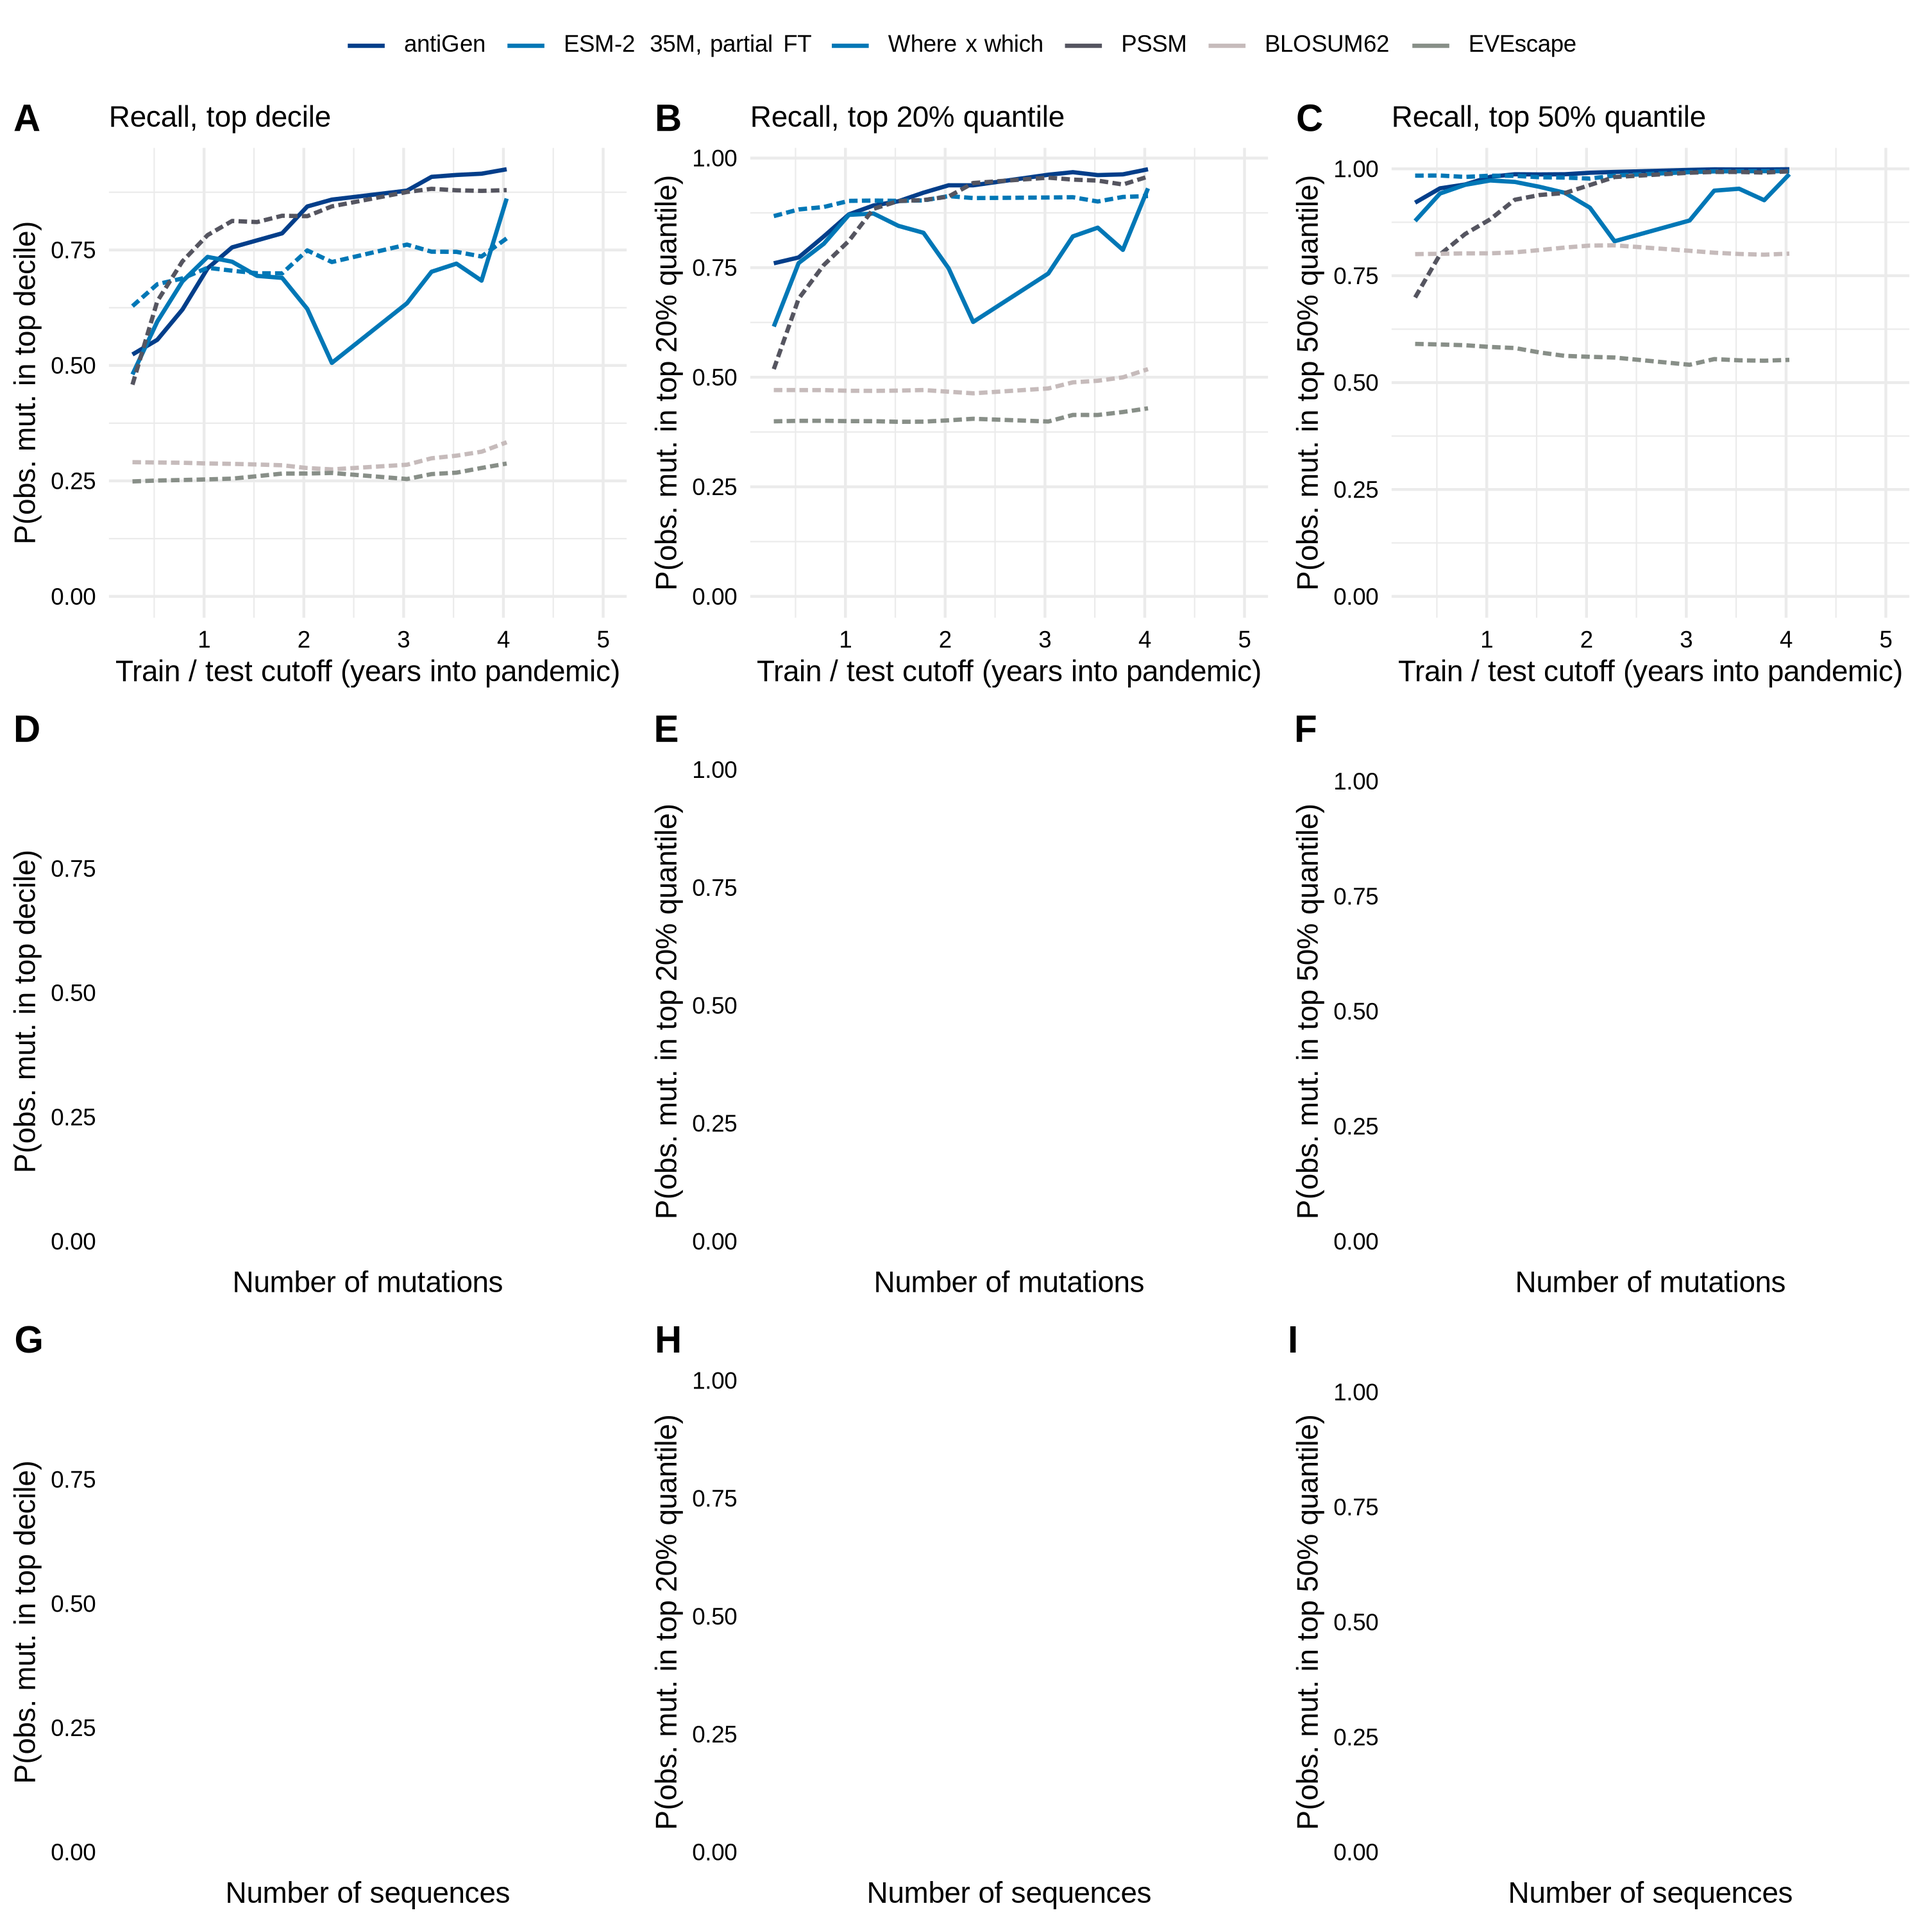
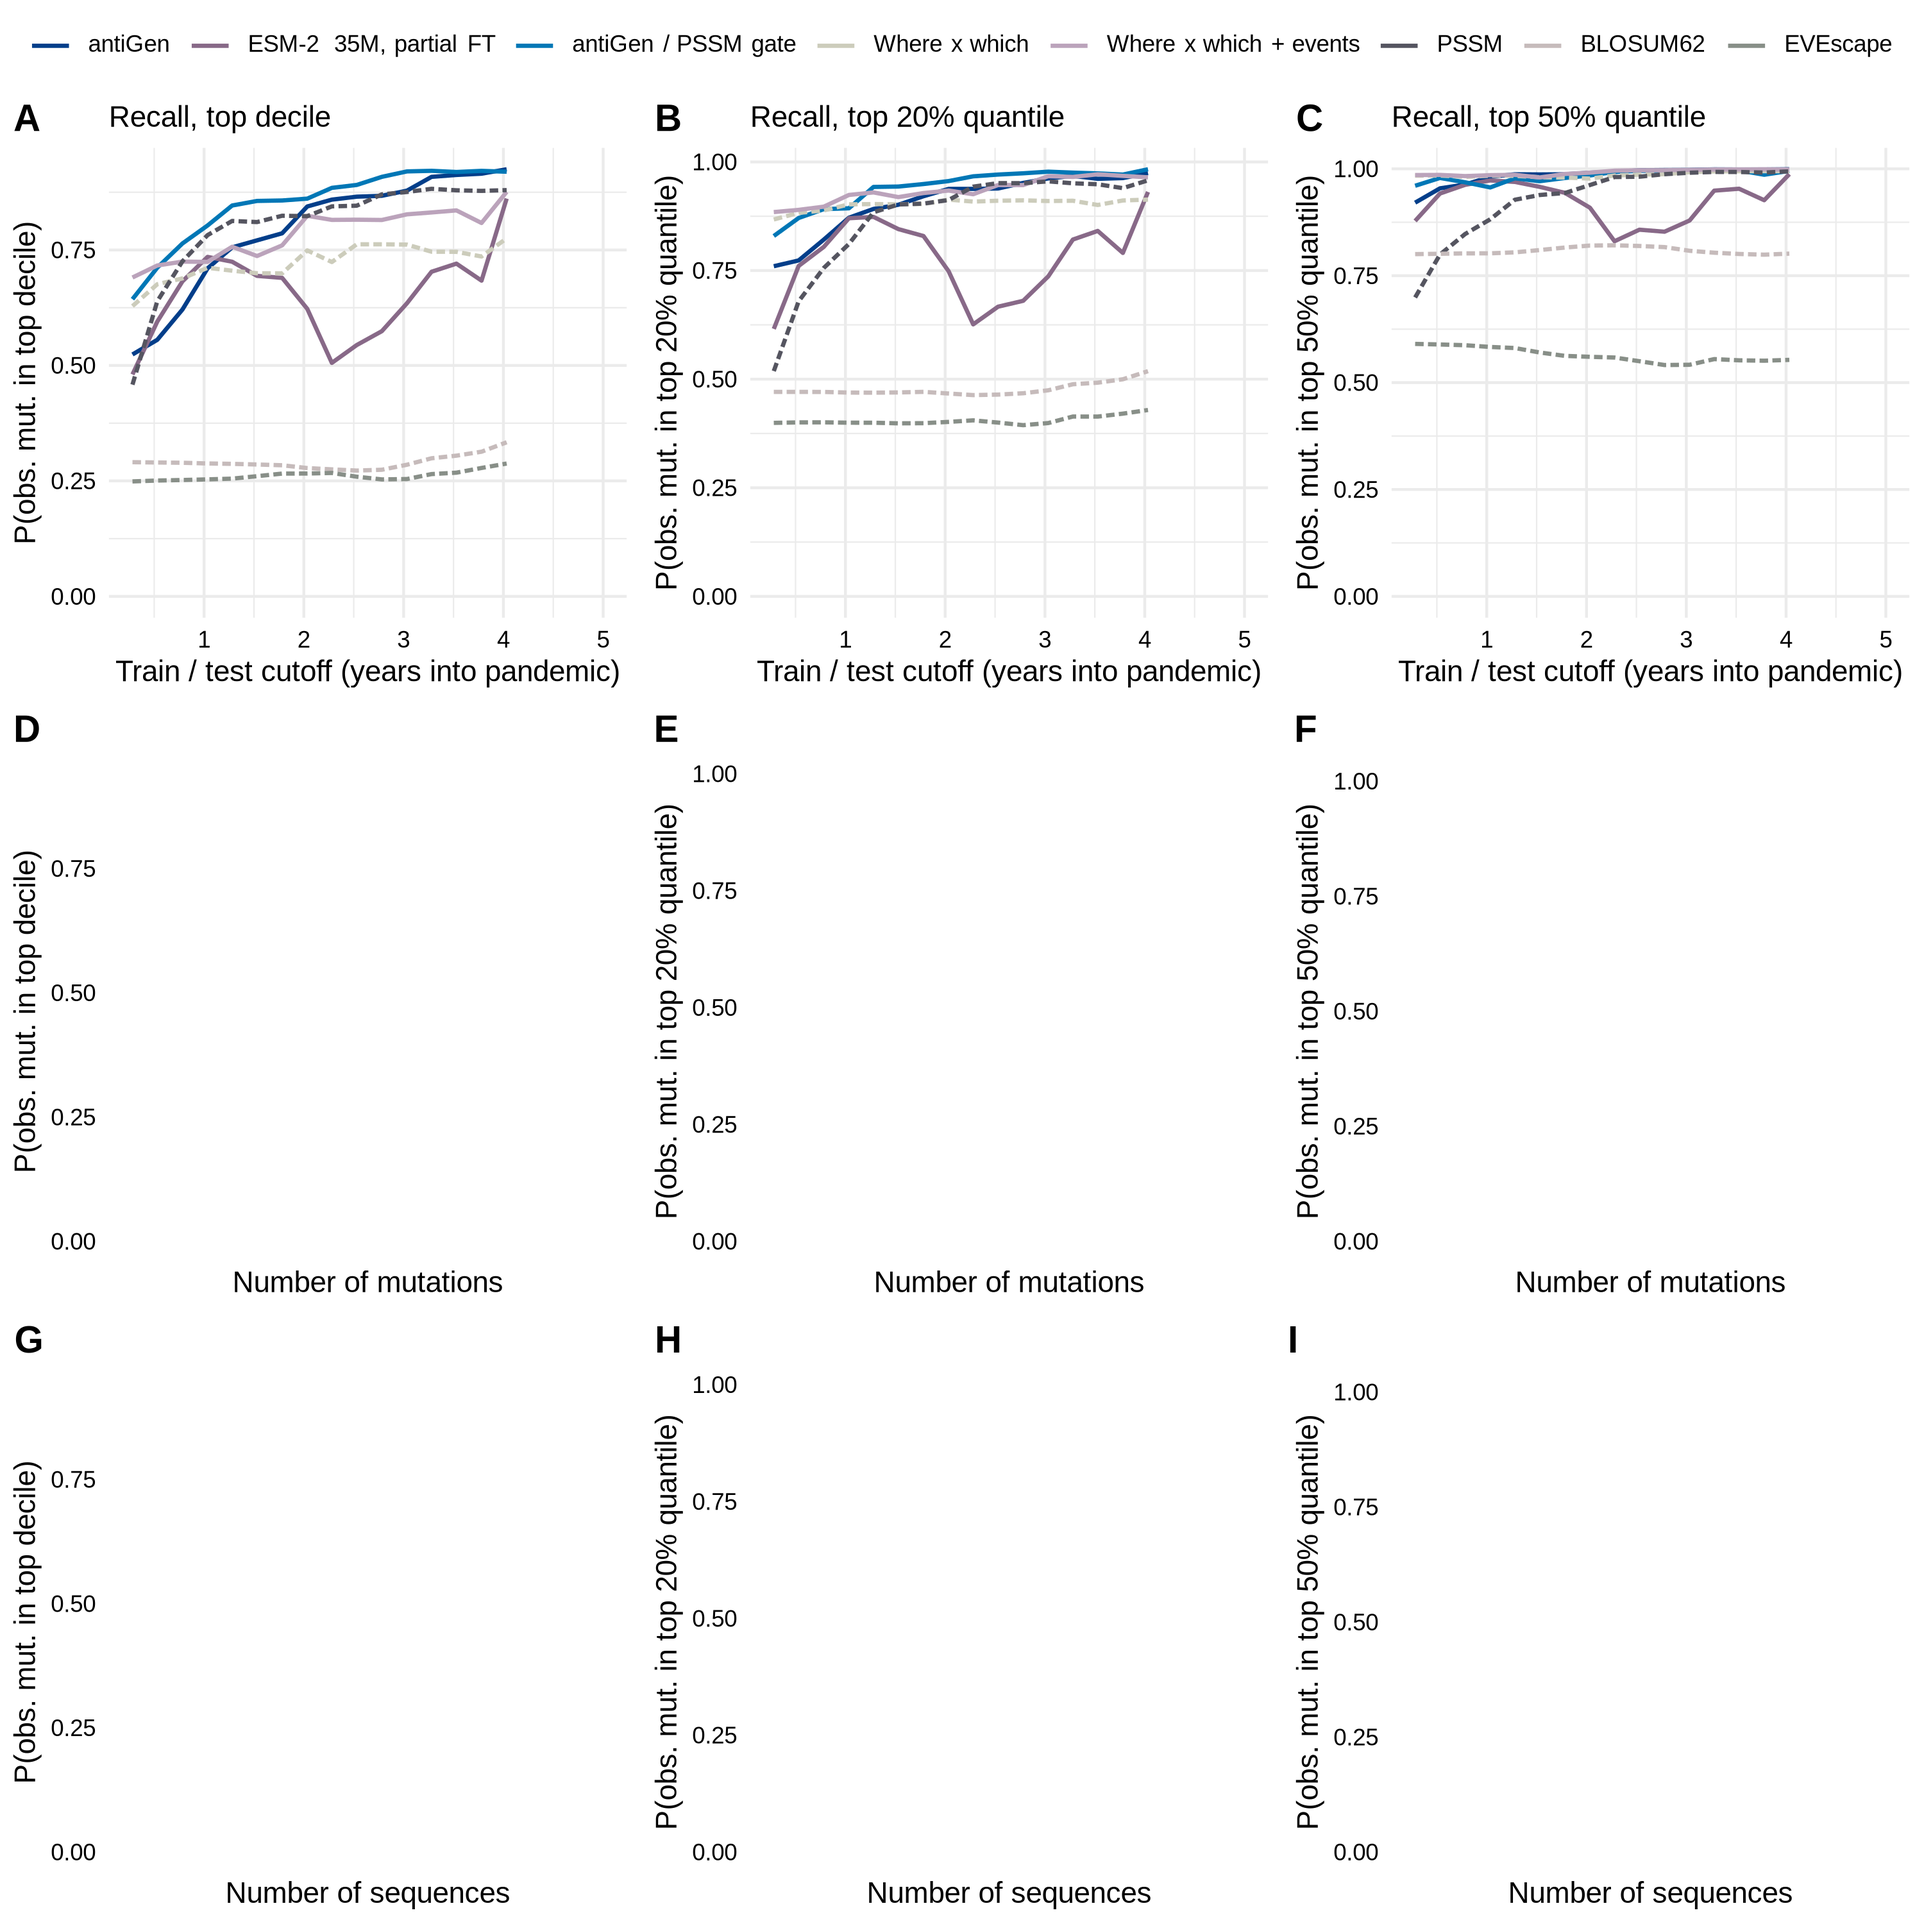
Panel M draws the antiGen/PSSM gate, on all sixteen cutoffs
Reconciled after 19 daemon cycles: 16 gate checkpoints, 16 cutoff evals with all
eight PANEL_ROWS, install reporting 16 of 16 for the first time.

The gate beats both parents at fifteen of sixteen cutoffs, and not by picking the
better one -- PSSM leads antiGen through 2021-10-01, antiGen leads PSSM after,
and the gate clears whichever is ahead on both sides of the crossover. The
exception is the last point, 2024-01-01, where antiGen alone is 0.925 against the
gate's 0.919: the one window large enough that the PSSM partner costs more than
it adds. That reproduces the published arm's claim on the revised corpus, with an
endpoint the published arm did not have.

Two colour bugs, both latent until the gate existed. FINETUNE_COLORS[4] and
GATE_BLUE are both #0077b6, so giving the gate the colour it is named for made
two of eight lines identical and put two blue swatches in the legend for
different models; the ESM-2 rung moves to FINETUNE_COLORS[5]. And a legend's
width is set by its ROW count -- guide_legend(nrow=3) turns six entries into two
columns but eight into three, which ran off the panel and over panel N's legend.
sc2.gate_legend_nrow defaults to 3 and is 4 here.

Published sc2_results.png and all six rendered supplements byte-identical.

NOTES s83.

diff --git a/experiments/multitree/NOTES.md b/experiments/multitree/NOTES.md
@@ -10192,3 +10192,57 @@ on that panel costs.
 * `experiments/multitree/submit_cutoff_evals.sh` -- gate staged when present; `TIME`,
   `REQUEUE`, `CPUS`, `MEM`, `GRES`, `NICE`.
 * `CLAUDE.md` -- the CPU partition rule.
+
+## 83. Panel M draws the gate, on all sixteen cutoffs (2026-10-27)
+
+The sweep reconciled at 14:34 after 19 daemon cycles: sixteen gate checkpoints, sixteen
+cutoff evals carrying all eight `PANEL_ROWS`. `install_sc2_aa20.sh` reports **16 of 16,
+all present** for the first time.
+
+### What the gate does
+
+Top decile, by cutoff:
+
+| cutoff | antiGen | PSSM | gate |
+|---|---|---|---|
+| 2020-04-01 | 0.524 | 0.458 | **0.643** |
+| 2021-01-01 | 0.710 | 0.782 | **0.803** |
+| 2022-01-01 | 0.844 | 0.823 | **0.861** |
+| 2023-01-01 | 0.878 | 0.876 | **0.920** |
+| 2024-01-01 | 0.925 | 0.880 | 0.919 |
+
+**It beats both parents at fifteen of sixteen cutoffs.** Not by picking the better one:
+PSSM leads antiGen early (through 2021-10-01) and antiGen leads PSSM late, and the gate
+clears whichever is ahead on both sides of that crossover. The single exception is the
+last point, 2024-01-01, where antiGen alone is 0.925 against the gate's 0.919 -- the
+one cutoff where the training window is large enough that the PSSM partner costs more
+than it adds. That is the published arm's claim reproduced on the revised corpus, with
+an endpoint the published arm did not have.
+
+### Two colour bugs, one of them latent for the whole project
+
+* **`FINETUNE_COLORS[4]` and `GATE_BLUE` are both `#0077b6`** (R/common.R:74,77). While
+  no gate existed on this arm the collision was invisible -- nothing else used
+  GATE_BLUE. Giving the gate the colour it is NAMED for made two of eight lines
+  identical, and the legend showed two blue swatches for different models. The ESM-2
+  rung moves to `FINETUNE_COLORS[5]`.
+* **The legend's width is set by its ROW count.** `guide_legend(nrow = 3)` fills rows
+  first, so n entries need ceil(n/3) columns: six entries were two columns and fitted,
+  eight became three and ran off the panel onto panel N's legend, where the two
+  overlapped into illegibility. `sc2.gate_legend_nrow` (default 3, four on this arm).
+
+Both are the same shape as the positional-colour traps of s77 and s79: a constant that
+was unambiguous only because one of its users did not exist yet.
+
+### Gated
+
+Published `sc2_results.png` and all six rendered supplements **byte-identical** through
+the gate row, the colour change and the legend option.
+
+### Code
+
+* `antiGen-figures/figures/fig2_sc2_benchmarks.R` -- `sc2.gate_legend_nrow`.
+* `antiGen-figures/figures/fig_sc2_aa20.R` -- the gate as panel M's second line,
+  `GATE_BLUE` reassigned to it, eight colours inserted at the row's index.
+* `experiments/multitree/submit_cutoff_evals.sh` -- `gated_static_xfmr_pssm_lr0.0001`
+  in `PANEL_ROWS`.
